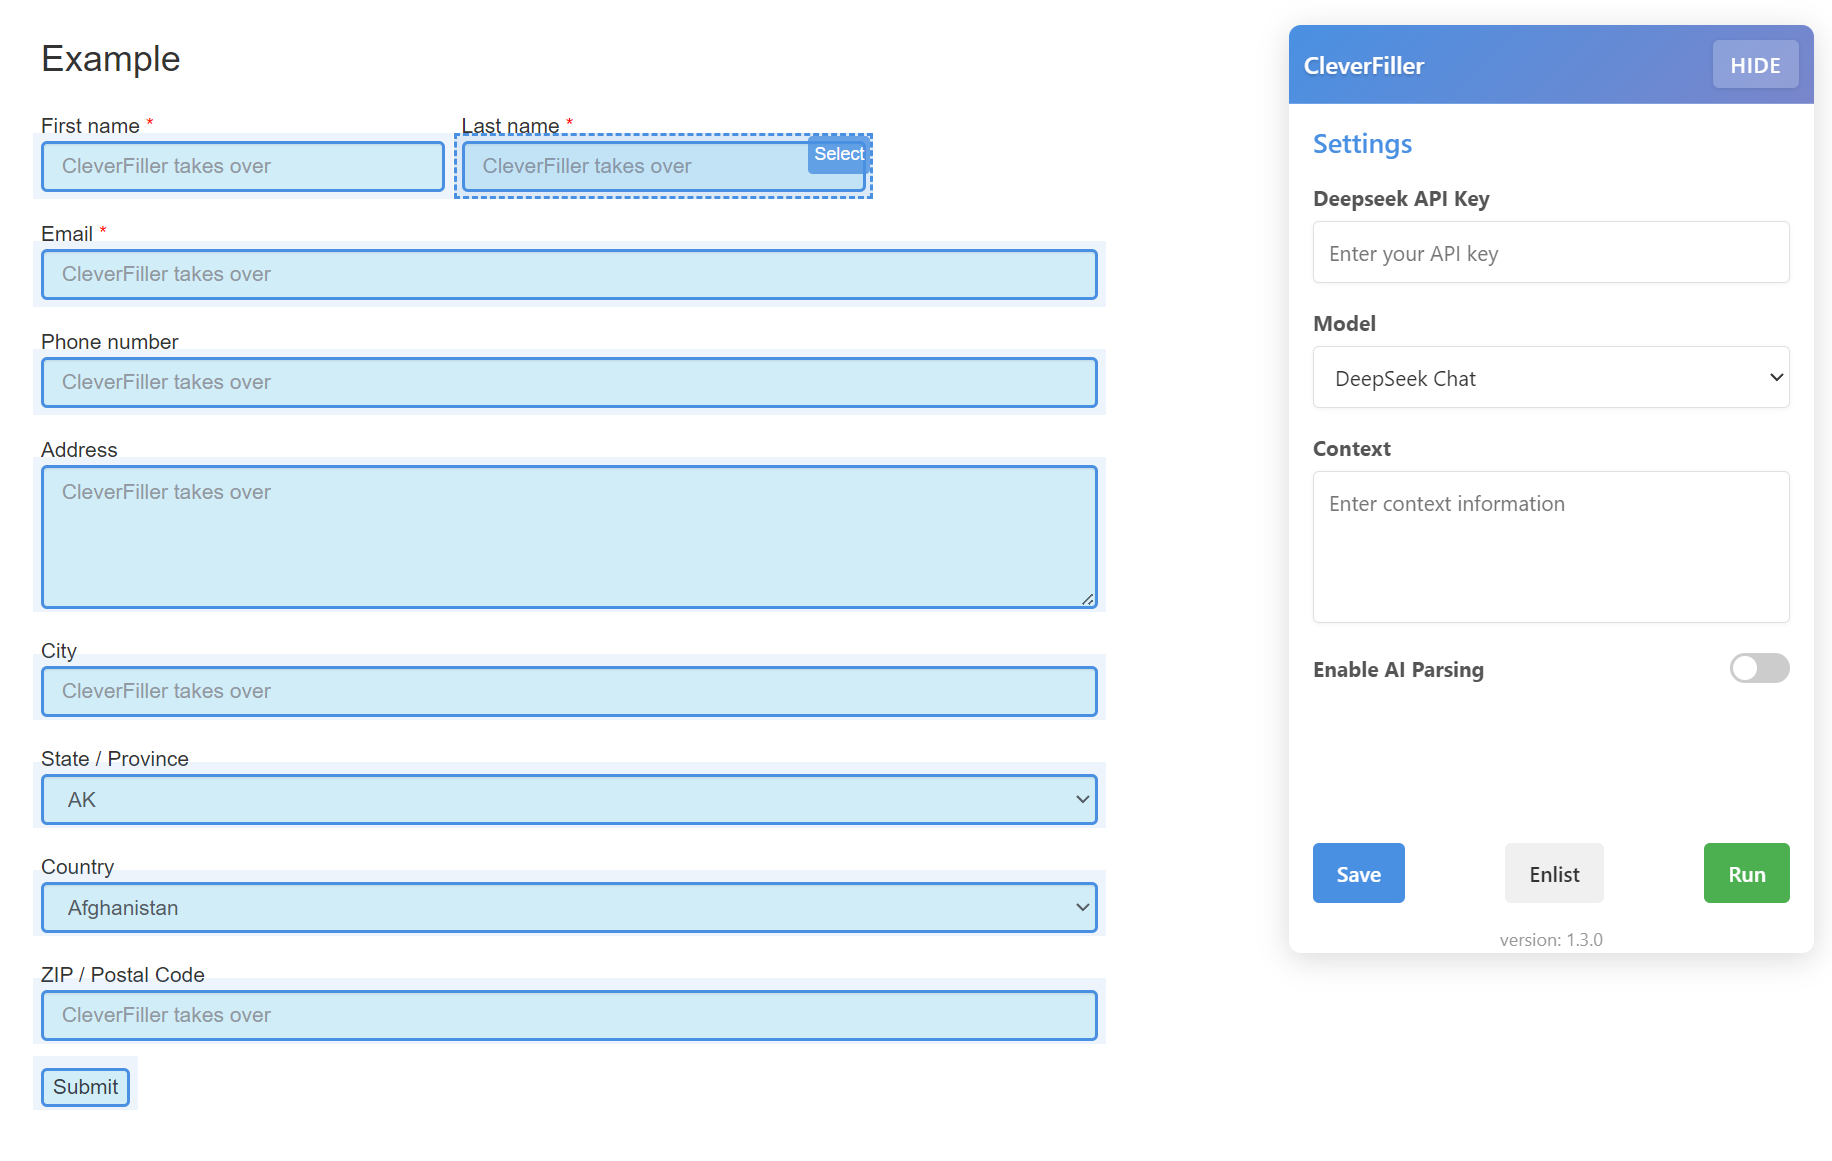
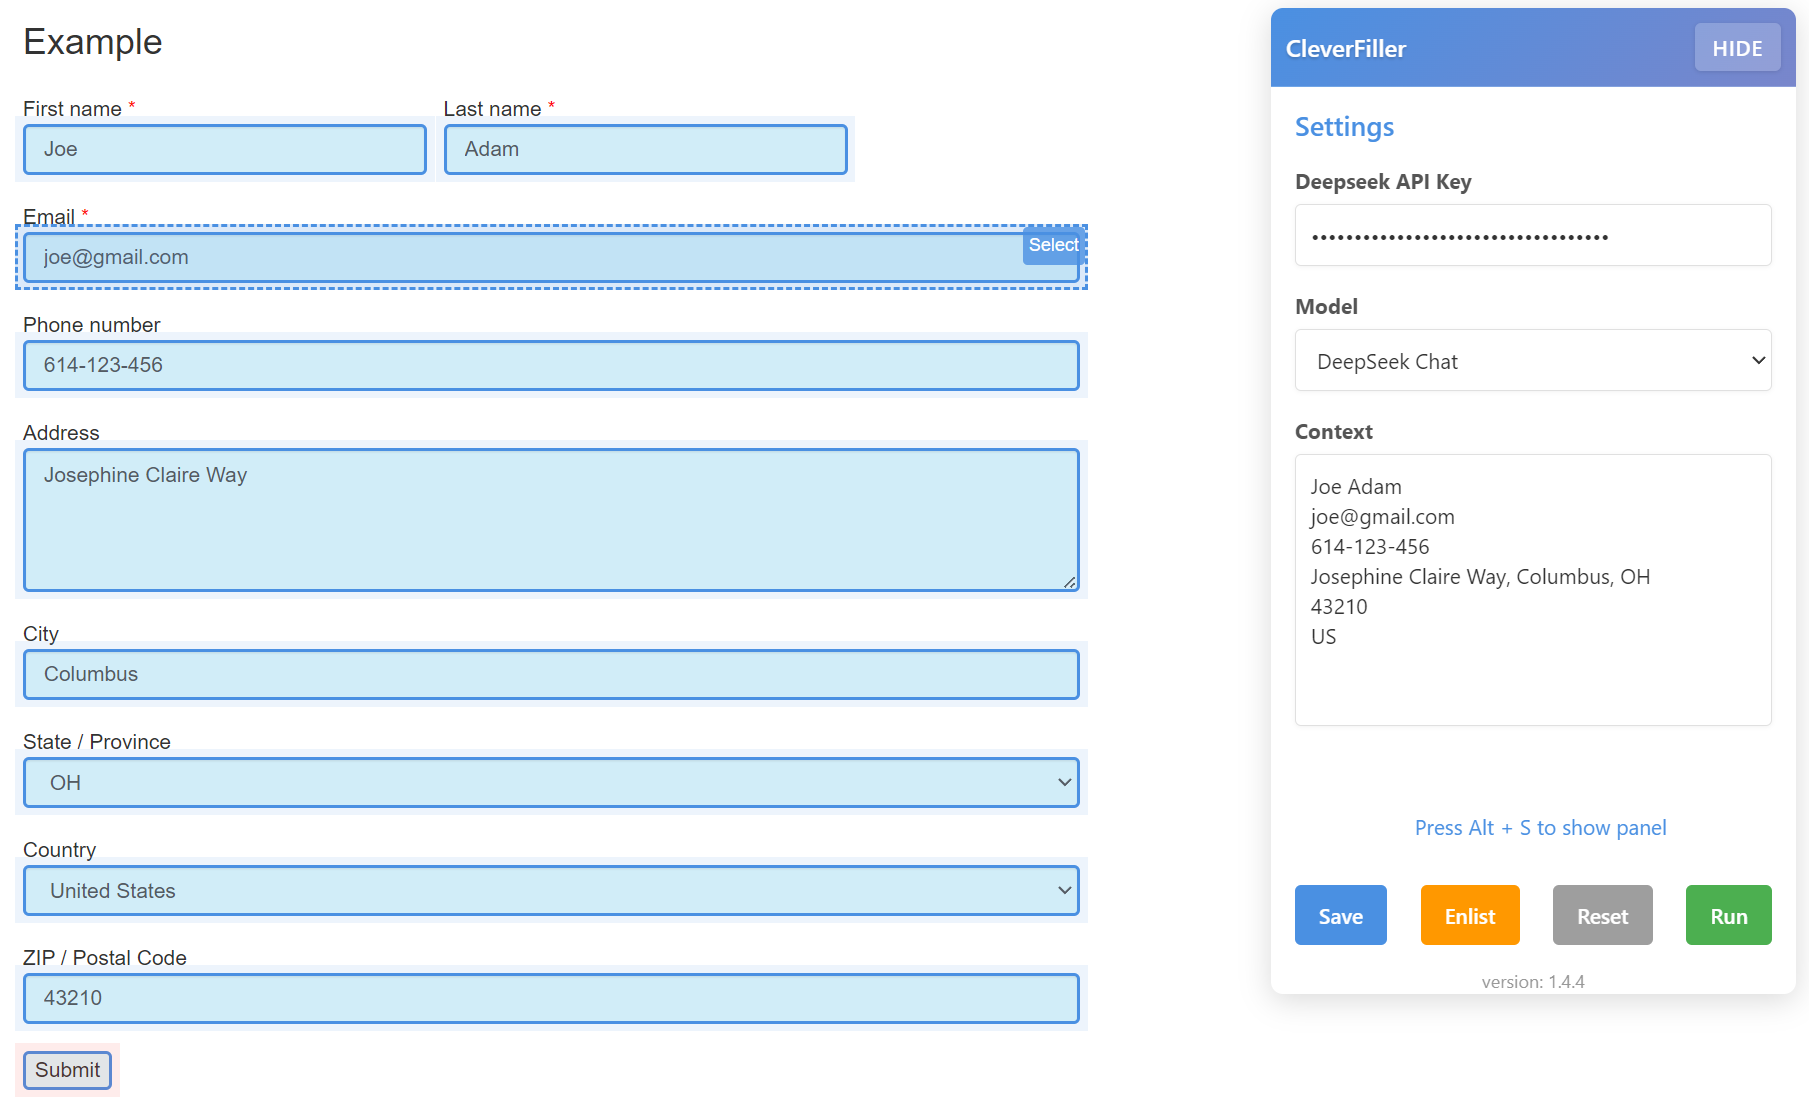
1.4.4: Update README for clarity and improve usage instructions; update example image

diff --git a/README.md b/README.md
@@ -4,7 +4,7 @@
 
 A tampermonkey script that fills form fields, using AI model to find the best match data for the fields. Simply, it just frees you a lot of time from filling out boring forms.
 
-Now it only supports Deepseek, but there are plans to support more AI models in the future. Support for Chinese is also planned. There are still some bugs to fix, and the workflow feature will most likely be added soon.
+Now it only supports Deepseek, but there are plans to support more AI models in the future. Support for Chinese and workflow mode will most likely be added soon.
 
 ## Usage
 
@@ -12,9 +12,10 @@ Now it only supports Deepseek, but there are plans to support more AI models in 
 > You need a [Deepseek API](https://deepseek.ai/) key to enable implementation of AI model.
 
 1. Click the **Enlist** button to scan the fillable fields in the form.
-2. Input text containing everything you need to fill for the form and leave it to the AI model to find the best match data for the fields.
-3. Click the **Run** button to fill the form fields.
-4. There you go!
+2. Click on fields you would like to fill.
+3. Input text containing everything you need to fill for the form and leave it to the AI model to find the best match data for the fields.
+4. Click the **Run** button to fill the form fields.
+5. There you go!
 
 ## Installation
 
